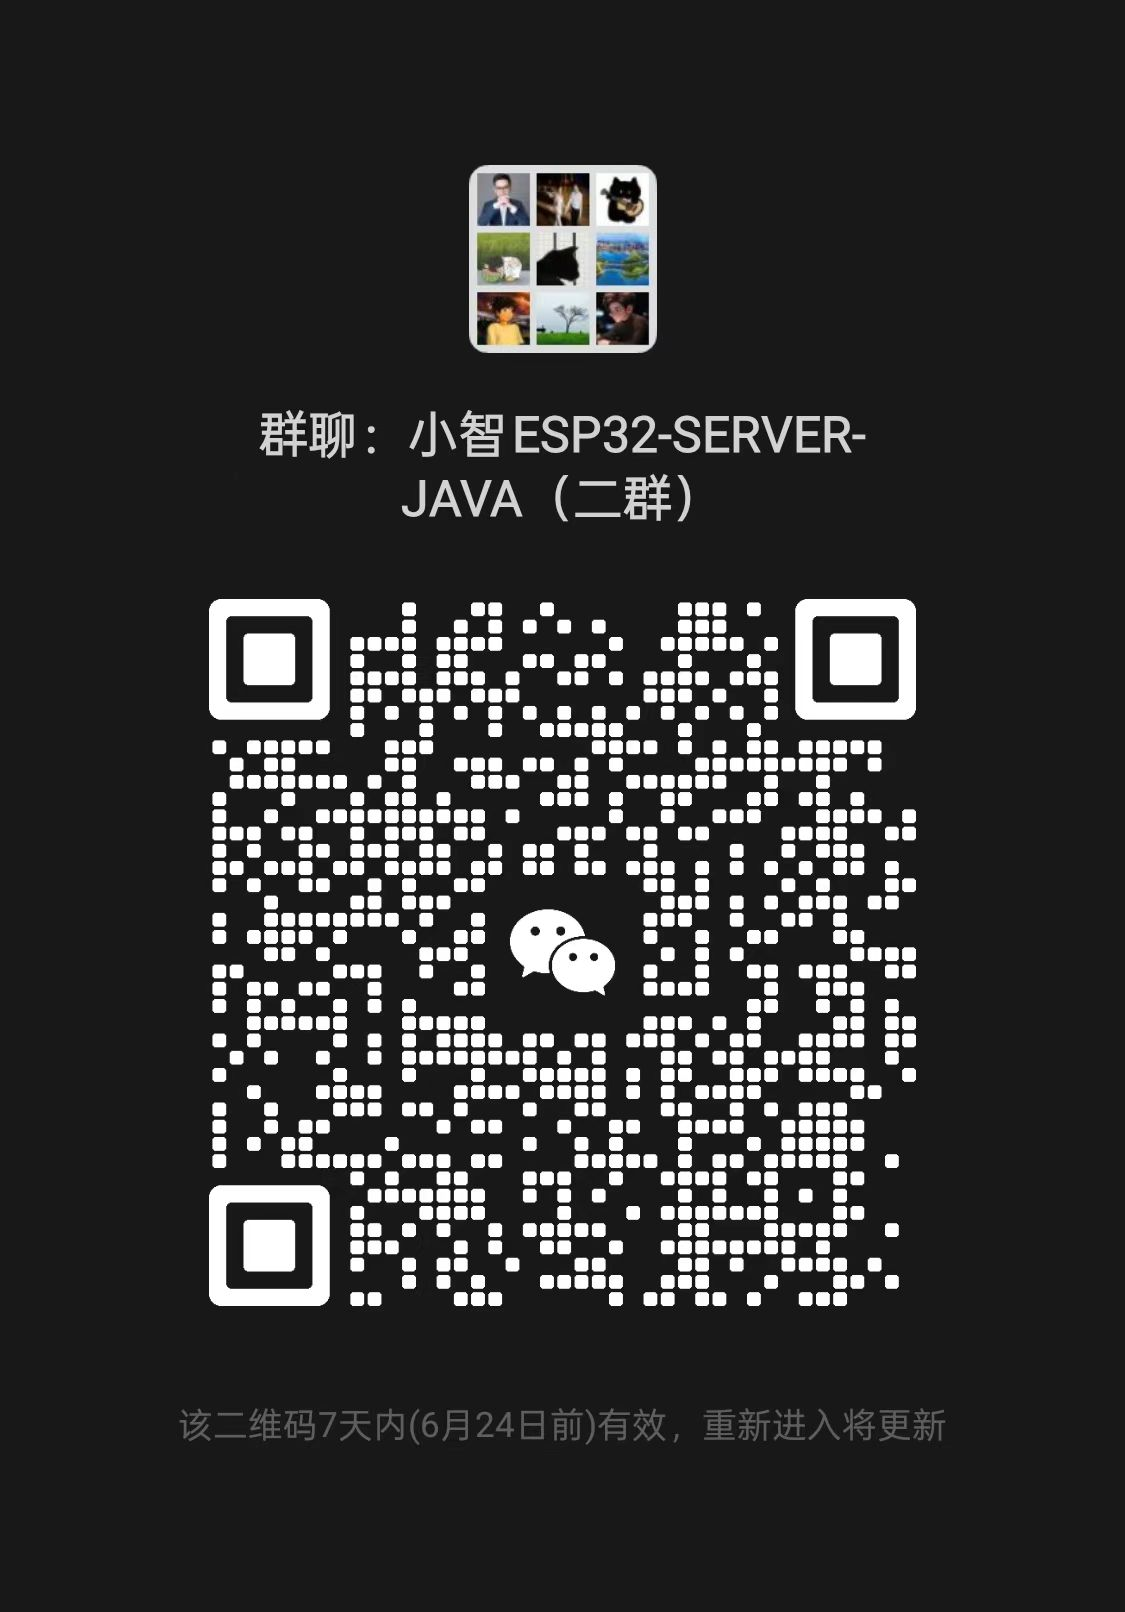
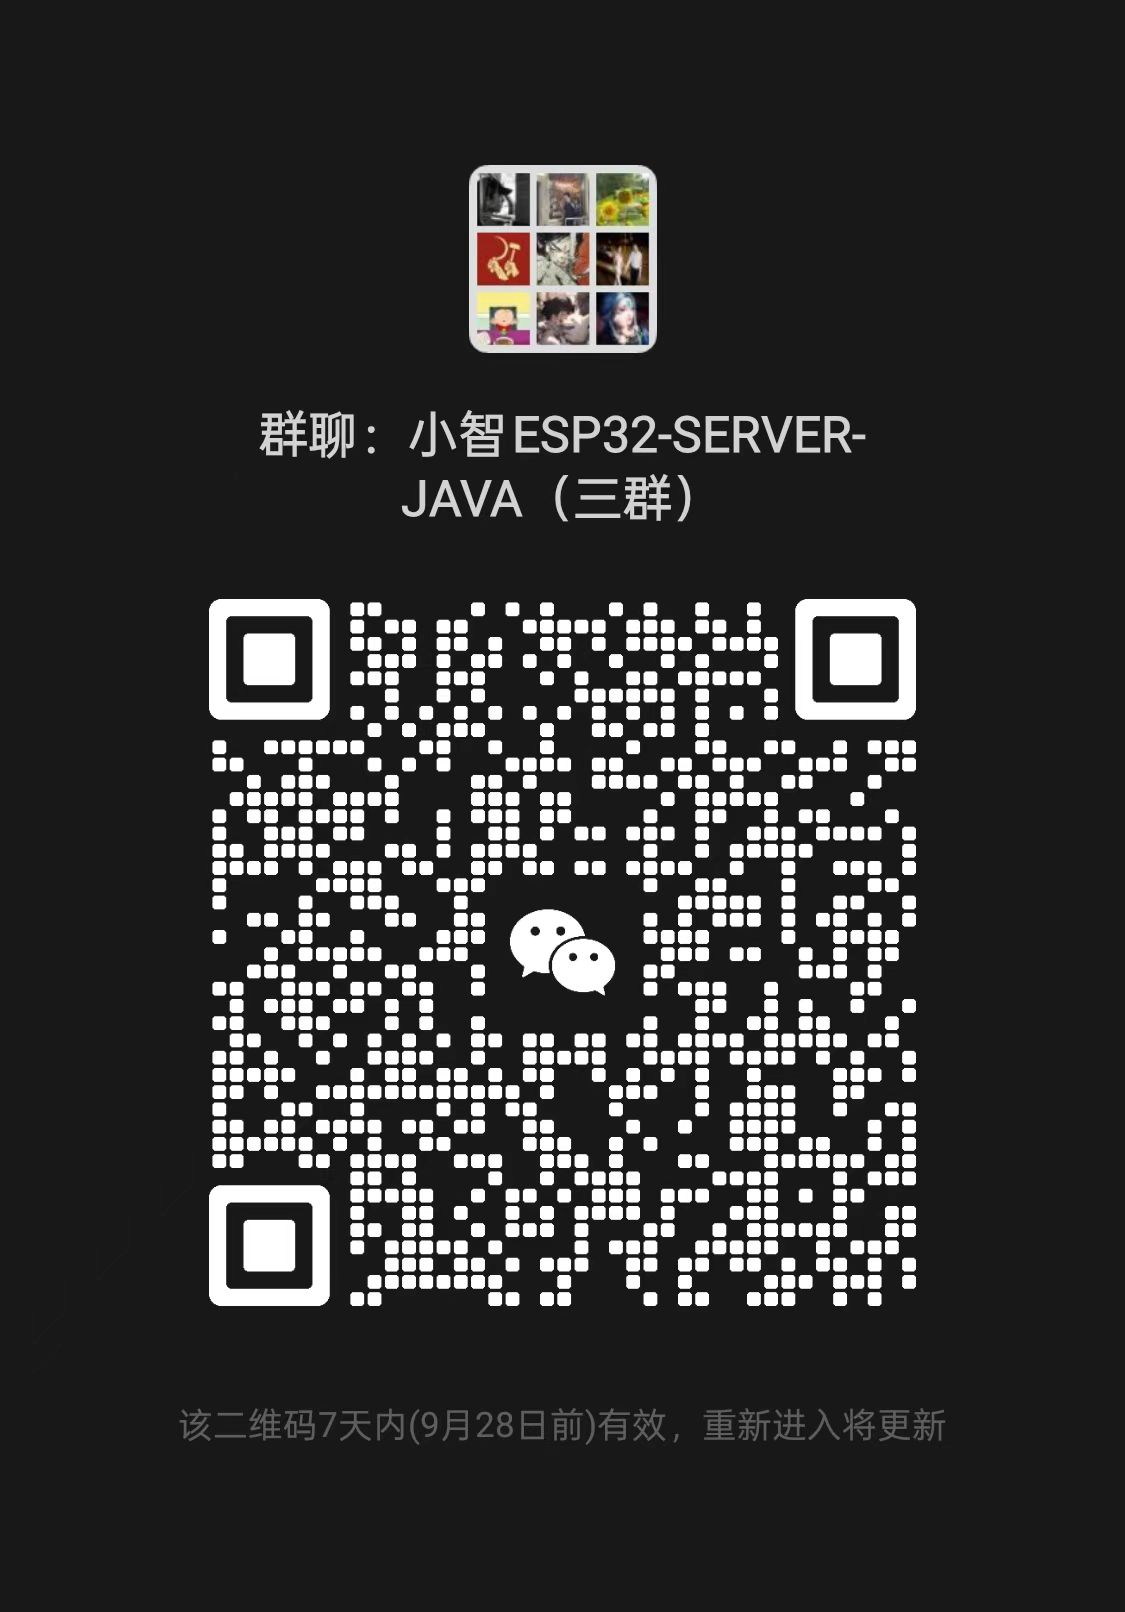
update: 修改README以更新微信群信息和图片

diff --git a/README.md b/README.md
@@ -214,9 +214,9 @@ Xiaozhi ESP32 Server Java 是基于 [Xiaozhi ESP32](https://github.com/78/xiaozh
 
 ### 微信
 
-微信群超200人无法扫码进群，可以加我微信备注 **小智** 我拉你进微信群
+欢迎加入我们的Wechat群一起交流讨论
 
-<img src="./web/static/img/wechat.jpg" alt="微信" width="200" />
+<img src="docs/images/wechat_group.jpg" alt="微信群" width="200" />
 
 ### QQ
 
@@ -227,6 +227,8 @@ Xiaozhi ESP32 Server Java 是基于 [Xiaozhi ESP32](https://github.com/78/xiaozh
 ### 定制开发
 
 我们接受各种定制化开发项目，如果您有特定需求，欢迎通过微信联系洽谈。
+
+<img src="./web/static/img/wechat.jpg" alt="微信" width="200" />
 
 ---
 
